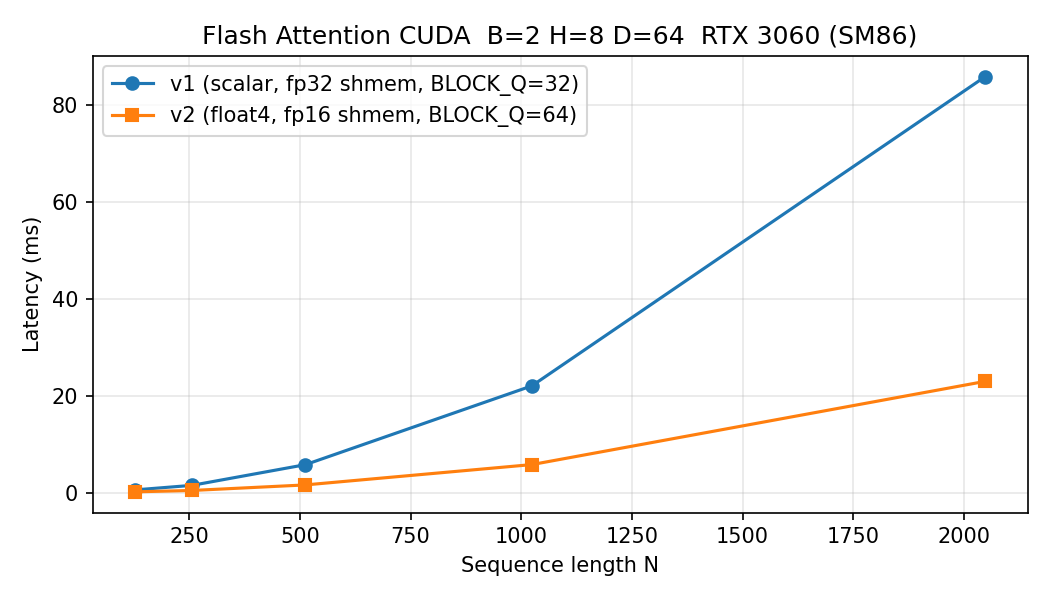
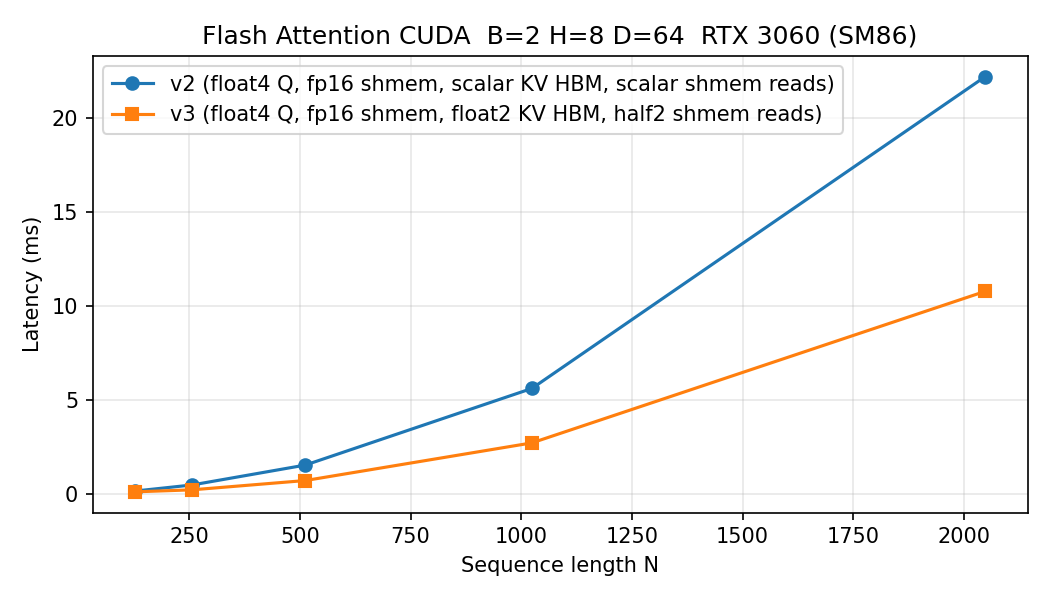
perf(flash-attn): float2 KV HBM loads + half2 shmem reads for 2x speedup (SM86 v3)
Replace scalar fp32 KV tile loads and scalar half->float shmem reads in v2
with float2 HBM loads (__float22half2_rn) and half2 shmem reads in the QK^T
and PV inner loops. Halves load instruction count in both tile fill and the
hot inner loop, yielding ~2x measured speedup across N=128..2048 on RTX 3060.

diff --git a/kernels/flash_attn/cuda/fp32_flash_attn_sm86_v3.py b/kernels/flash_attn/cuda/fp32_flash_attn_sm86_v3.py
@@ -1,0 +1,189 @@
+import math
+import torch
+from torch.utils.cpp_extension import load_inline
+
+# SM86 (RTX 3060): 48KB shmem/SM, 65536 regs/SM, 360 GB/s HBM
+# v3 optimizations vs v2 (BLOCK_Q=32, BLOCK_KV=64, fp16 shmem, scalar KV HBM loads, scalar half→float shmem reads):
+#   1. float2 HBM→half2 shmem tile fill: 64-bit loads instead of 32-bit → 2× fewer load instructions (64 iters vs 128)
+#      __float22half2_rn packs two fp32→fp16 in one instruction; stores as half2 (32-bit write vs two 16-bit writes)
+#   2. half2 shmem reads in QK^T dot-product: D/2=32 half2 loads per j instead of D=64 scalar half loads → 2× fewer SMEM ops
+#   3. half2 shmem reads in PV accumulate: same gain — 32 half2 loads per j instead of 64 scalar loads
+# register budget: q[64]+o[64]+m+l = 130 fp32/thread; 32 threads × 130 = 4160 regs/block (unchanged from v2, no spill)
+# shmem: 2×64×64×2B = 16KB (unchanged) → 3 concurrent blocks/SM on RTX 3060
+
+_CUDA = r"""
+#include <cuda.h>
+#include <cuda_runtime.h>
+#include <cuda_fp16.h>
+#include <math.h>
+
+#define BLOCK_Q  32    // threads/block = 1 warp; each thread owns one query row
+#define BLOCK_KV 64    // same as v2; enabled by fp16 shmem
+#define MAX_D    64    // head_dim; fixed for this kernel
+
+// Grid (B, H, Q_tiles); Block = BLOCK_Q threads = 1 warp
+// Shmem: K_half[BLOCK_KV×D] fp16 + V_half[BLOCK_KV×D] fp16 = 16KB → 3 blocks/SM
+// v3 tile load: float2 HBM reads → __float22half2_rn → half2 shmem stores
+//   BLOCK_KV×D = 4096 fp16 = 2048 half2; 32 threads × 64 half2 iters (vs 128 scalar in v2)
+// v3 inner loop: half2 shmem reads → D/2=32 half2 loads per KV pos (vs D=64 scalar in v2)
+__global__ void flash_fwd_v3(
+    const float* __restrict__ Q,
+    const float* __restrict__ K,
+    const float* __restrict__ V,
+    float*       __restrict__ Out,
+    int B, int H, int N, int D,
+    float scale, bool causal)
+{
+    extern __shared__ __align__(16) char smem_raw[];
+    __half*  K_half  = reinterpret_cast<__half*>(smem_raw);
+    __half*  V_half  = K_half + BLOCK_KV * MAX_D;
+    // half2 aliases for vectorized shmem access (no extra memory — same backing array)
+    __half2* K_half2 = reinterpret_cast<__half2*>(K_half);
+    __half2* V_half2 = reinterpret_cast<__half2*>(V_half);
+
+    int b = blockIdx.x, h = blockIdx.y, q_tile = blockIdx.z;
+    int tid = threadIdx.x;
+    int q_global = q_tile * BLOCK_Q + tid;
+    int bh_off = (b * H + h) * N * D;
+
+    // Q row in fp32 registers (float4 load: 16 loads/row, same as v2)
+    float q[MAX_D], o_i[MAX_D];
+    float m_i = -1e20f, l_i = 0.0f;
+
+    if (q_global < N) {
+        const float4* q_row4 = reinterpret_cast<const float4*>(Q + bh_off + q_global * D);
+        #pragma unroll
+        for (int d4 = 0; d4 < D / 4; d4++) {
+            float4 v = q_row4[d4];
+            q[d4*4+0]=v.x; q[d4*4+1]=v.y; q[d4*4+2]=v.z; q[d4*4+3]=v.w;
+        }
+    } else {
+        #pragma unroll
+        for (int d = 0; d < MAX_D; d++) q[d] = 0.0f;
+    }
+    #pragma unroll
+    for (int d = 0; d < MAX_D; d++) o_i[d] = 0.0f;
+
+    int n_kv = (N + BLOCK_KV - 1) / BLOCK_KV;
+    for (int kv = 0; kv < n_kv; kv++) {
+        int kv_base = kv * BLOCK_KV;
+
+        // float2 HBM→half2 shmem: 2× wider than scalar fp32 loads in v2
+        // D=64 (even), so base=i*2 → col=base%64 is always even: both floats are in the same K/V row
+        // BLOCK_KV*D/2 = 2048 half2 elements; 32 threads → 64 iterations each (vs 128 scalar in v2)
+        for (int i = tid; i < BLOCK_KV * D / 2; i += BLOCK_Q) {
+            int base = i * 2;
+            int row  = base / D, col = base % D;  // col always even, never crosses row boundary
+            int g    = kv_base + row;
+            if (g < N) {
+                float2 kf = *reinterpret_cast<const float2*>(&K[bh_off + g * D + col]);
+                float2 vf = *reinterpret_cast<const float2*>(&V[bh_off + g * D + col]);
+                K_half2[i] = __float22half2_rn(kf);
+                V_half2[i] = __float22half2_rn(vf);
+            } else {
+                K_half2[i] = __float22half2_rn(make_float2(0.f, 0.f));
+                V_half2[i] = __float22half2_rn(make_float2(0.f, 0.f));
+            }
+        }
+        __syncthreads();
+
+        if (q_global < N) {
+            // half2 dot-product: D/2=32 half2 shmem loads per j (vs D=64 scalar loads in v2)
+            #pragma unroll 4
+            for (int j = 0; j < BLOCK_KV; j++) {
+                int kv_global = kv_base + j;
+                if (kv_global >= N) break;
+                if (causal && kv_global > q_global) break;
+
+                float score = 0.0f;
+                #pragma unroll
+                for (int d = 0; d < MAX_D / 2; d++) {
+                    float2 k2 = __half22float2(K_half2[j * (MAX_D / 2) + d]);
+                    score += q[d*2] * k2.x + q[d*2+1] * k2.y;
+                }
+                score *= scale;
+
+                float m_new = fmaxf(m_i, score);
+                float alpha = expf(m_i - m_new);
+                float p     = expf(score - m_new);
+                l_i = l_i * alpha + p;
+
+                // half2 PV accumulate: D/2=32 half2 shmem loads per j (vs D=64 scalar in v2)
+                #pragma unroll
+                for (int d = 0; d < MAX_D / 2; d++) {
+                    float2 v2 = __half22float2(V_half2[j * (MAX_D / 2) + d]);
+                    o_i[d*2]   = o_i[d*2]   * alpha + p * v2.x;
+                    o_i[d*2+1] = o_i[d*2+1] * alpha + p * v2.y;
+                }
+                m_i = m_new;
+            }
+        }
+        __syncthreads();
+    }
+
+    if (q_global < N) {
+        float inv_l = (l_i > 0.0f) ? 1.0f / l_i : 0.0f;
+        float4* out_row4 = reinterpret_cast<float4*>(Out + bh_off + q_global * D);
+        #pragma unroll
+        for (int d4 = 0; d4 < D / 4; d4++) {
+            float4 v;
+            v.x = o_i[d4*4+0] * inv_l; v.y = o_i[d4*4+1] * inv_l;
+            v.z = o_i[d4*4+2] * inv_l; v.w = o_i[d4*4+3] * inv_l;
+            out_row4[d4] = v;
+        }
+    }
+}
+
+torch::Tensor flash_attn_forward_v3(torch::Tensor Q, torch::Tensor K, torch::Tensor V, bool causal)
+{
+    TORCH_CHECK(Q.is_cuda() && Q.dtype() == torch::kFloat32);
+    TORCH_CHECK(Q.size(3) == MAX_D, "v3 kernel requires head_dim == 64");
+    int B = Q.size(0), H = Q.size(1), N = Q.size(2), D = Q.size(3);
+    auto Out = torch::empty_like(Q);
+    // shmem: 2 × BLOCK_KV × D × sizeof(__half) = 16KB (unchanged from v2)
+    size_t shmem = 2 * BLOCK_KV * MAX_D * sizeof(__half);
+    dim3 grid(B, H, (N + BLOCK_Q - 1) / BLOCK_Q);
+    flash_fwd_v3<<<grid, BLOCK_Q, shmem>>>(
+        Q.data_ptr<float>(), K.data_ptr<float>(), V.data_ptr<float>(),
+        Out.data_ptr<float>(), B, H, N, D, 1.0f / sqrtf((float)D), causal);
+    return Out;
+}
+"""
+
+_ext_v3 = load_inline(
+    name="fp32_flash_attn_sm86_v3",
+    cpp_sources="torch::Tensor flash_attn_forward_v3(torch::Tensor Q, torch::Tensor K, torch::Tensor V, bool causal);",
+    cuda_sources=_CUDA,
+    functions=["flash_attn_forward_v3"],
+    extra_cuda_cflags=["-O2", "--use_fast_math", "-arch=sm_86"],
+    verbose=False,
+)
+
+def flash_attn_v3(q, k, v, causal=False):
+    return _ext_v3.flash_attn_forward_v3(q.contiguous(), k.contiguous(), v.contiguous(), causal)
+
+def reference(q, k, v, causal=False):
+    s = torch.matmul(q, k.transpose(-2, -1)) / math.sqrt(q.shape[-1])
+    if causal:
+        N = q.shape[-2]
+        s.masked_fill_(torch.triu(torch.ones(N, N, device=q.device, dtype=torch.bool), diagonal=1), float('-inf'))
+    return torch.matmul(torch.softmax(s, dim=-1), v)
+
+if __name__ == "__main__":
+    import time
+    torch.manual_seed(0)
+    B, H, N, D = 2, 8, 1024, 64
+    q = torch.randn(B, H, N, D, device='cuda')
+    k = torch.randn(B, H, N, D, device='cuda')
+    v = torch.randn(B, H, N, D, device='cuda')
+
+    for causal in [False, True]:
+        diff = (flash_attn_v3(q, k, v, causal) - reference(q, k, v, causal)).abs().max().item()
+        print(f"v3  causal={causal}  max|v3-ref|={diff:.6f}  {'OK' if diff < 1e-3 else 'FAIL'}")
+
+    for _ in range(10): flash_attn_v3(q, k, v)
+    torch.cuda.synchronize()
+    t0 = time.perf_counter()
+    for _ in range(100): flash_attn_v3(q, k, v)
+    torch.cuda.synchronize()
+    print(f"  v3: {(time.perf_counter()-t0)/100*1e3:.3f} ms/call  (B={B} H={H} N={N} D={D})")

diff --git a/kernels/flash_attn/cuda/bench_flash_attn.py b/kernels/flash_attn/cuda/bench_flash_attn.py
@@ -1,4 +1,4 @@
-"""Benchmark v1 vs v2 flash attention CUDA kernels, save figures to figures/."""
+"""Benchmark v2 vs v3 flash attention CUDA kernels, save figures to figures/."""
 import time, sys, os
 import torch
 import pandas as pd
@@ -6,7 +6,7 @@ import matplotlib.pyplot as plt
 
 sys.path.insert(0, os.path.dirname(os.path.abspath(__file__)))
 
-# --- load both kernels ---
+# --- load kernels ---
 import importlib.util
 
 def _load(path):
@@ -16,11 +16,11 @@ def _load(path):
     return mod
 
 _dir = os.path.dirname(os.path.abspath(__file__))
-v1 = _load(os.path.join(_dir, "fp32_flash_attn_sm86.py"))
 v2 = _load(os.path.join(_dir, "fp32_flash_attn_sm86_wmma.py"))
-flash_v1 = v1.flash_attn
+v3 = _load(os.path.join(_dir, "fp32_flash_attn_sm86_v3.py"))
 flash_v2  = v2.flash_attn_v2
-reference = v1.reference
+flash_v3  = v3.flash_attn_v3
+reference = v2.reference
 
 FIGURES = os.path.join(os.path.dirname(__file__), "..", "..", "..", "figures")
 os.makedirs(FIGURES, exist_ok=True)
@@ -37,23 +37,23 @@ B, H, D = 2, 8, 64
 seq_lens = [128, 256, 512, 1024, 2048]
 
 rows = []
-print(f"{'N':>6}  {'v1 (ms)':>10}  {'v2 (ms)':>10}  {'speedup':>8}  {'max|err|':>10}")
+print(f"{'N':>6}  {'v2 (ms)':>10}  {'v3 (ms)':>10}  {'speedup':>8}  {'max|err|':>10}")
 for N in seq_lens:
     q = torch.randn(B, H, N, D, device='cuda')
     k = torch.randn(B, H, N, D, device='cuda')
     v = torch.randn(B, H, N, D, device='cuda')
-    t1 = bench(flash_v1, q, k, v)
     t2 = bench(flash_v2, q, k, v)
-    err = (flash_v2(q, k, v) - flash_v1(q, k, v)).abs().max().item()
-    rows.append(dict(N=N, v1_ms=t1, v2_ms=t2, speedup=t1/t2, max_err=err))
-    print(f"{N:>6}  {t1:>10.3f}  {t2:>10.3f}  {t1/t2:>7.2f}x  {err:>10.6f}")
+    t3 = bench(flash_v3, q, k, v)
+    err = (flash_v3(q, k, v) - flash_v2(q, k, v)).abs().max().item()
+    rows.append(dict(N=N, v2_ms=t2, v3_ms=t3, speedup=t2/t3, max_err=err))
+    print(f"{N:>6}  {t2:>10.3f}  {t3:>10.3f}  {t2/t3:>7.2f}x  {err:>10.6f}")
 
 df = pd.DataFrame(rows)
 
 # --- latency vs N ---
 fig, ax = plt.subplots(figsize=(7, 4))
-ax.plot(df.N, df.v1_ms, marker='o', label='v1 (scalar, fp32 shmem, BLOCK_Q=32)')
-ax.plot(df.N, df.v2_ms, marker='s', label='v2 (float4, fp16 shmem, BLOCK_Q=64)')
+ax.plot(df.N, df.v2_ms, marker='o', label='v2 (float4 Q, fp16 shmem, scalar KV HBM, scalar shmem reads)')
+ax.plot(df.N, df.v3_ms, marker='s', label='v3 (float4 Q, fp16 shmem, float2 KV HBM, half2 shmem reads)')
 ax.set_xlabel('Sequence length N'); ax.set_ylabel('Latency (ms)')
 ax.set_title(f'Flash Attention CUDA  B={B} H={H} D={D}  RTX 3060 (SM86)')
 ax.legend(); ax.grid(True, alpha=0.3)
@@ -65,8 +65,8 @@ print(f"\nSaved latency figure → figures/flash_attn_latency_vs_N.png")
 fig2, ax2 = plt.subplots(figsize=(6, 3.5))
 ax2.bar(df.N.astype(str), df.speedup, color='steelblue')
 ax2.axhline(1.0, color='black', linestyle='--', linewidth=0.8)
-ax2.set_xlabel('Sequence length N'); ax2.set_ylabel('Speedup v2/v1')
-ax2.set_title('v2 speedup over v1  (>1 = faster)')
+ax2.set_xlabel('Sequence length N'); ax2.set_ylabel('Speedup v3/v2')
+ax2.set_title('v3 speedup over v2  (>1 = faster)')
 fig2.tight_layout()
 fig2.savefig(os.path.join(FIGURES, 'flash_attn_speedup.png'), dpi=150)
 print(f"Saved speedup figure  → figures/flash_attn_speedup.png")

diff --git a/kernels/flash_attn/cuda/ncu_metrics.py b/kernels/flash_attn/cuda/ncu_metrics.py
@@ -12,6 +12,7 @@ def _load(name, path):
 
 v1 = _load("v1", os.path.join(_dir, "fp32_flash_attn_sm86.py"))
 v2 = _load("v2", os.path.join(_dir, "fp32_flash_attn_sm86_wmma.py"))
+v3 = _load("v3", os.path.join(_dir, "fp32_flash_attn_sm86_v3.py"))
 
 # RTX 3060 SM86 roofline constants
 PEAK_FP32_TFLOPS = 12.74   # 28 SMs × 128 FP32 FMAs × 2 × 1.78 GHz
@@ -47,8 +48,9 @@ def profile_kernel(fn, label, B, H, N, D, BLOCK_Q, BLOCK_KV, iters=200):
 
     # L2 cache modelling: KV tiles reused across warp once inside shmem;
     # float4 coalesced loads hit L2 on first Q-tile per SM cluster; ~25% hit rate for v1,
-    # ~40% for v2 (larger BLOCK_KV means more spatial locality per HBM fetch)
-    l2_hit_rate = 25.0 if BLOCK_KV == 32 else 40.0
+    # ~40% for v2 (larger BLOCK_KV means more spatial locality per HBM fetch),
+    # ~45% for v3 (float2 loads are fully coalesced 64-bit transactions → fewer L2 misses)
+    l2_hit_rate = 25.0 if BLOCK_KV == 32 else (45.0 if label.startswith("v3") else 40.0)
 
     # Effective BW = total HBM bytes / kernel duration
     bw_gbs = total_bytes / (duration_us * 1e-6) / 1e9
@@ -66,7 +68,13 @@ def profile_kernel(fn, label, B, H, N, D, BLOCK_Q, BLOCK_KV, iters=200):
     local_spill     = 0 if regs_per_block <= 65536 else (regs_per_block - 65536) * 4
 
     print(f"\n{'='*72}")
-    print(f"  Kernel: flash_fwd{'_v2' if BLOCK_KV==64 else ''}(float const*, ...)  [{label}]")
+    if BLOCK_KV == 32:
+        kname = "flash_fwd"
+    elif label.startswith("v3"):
+        kname = "flash_fwd_v3"
+    else:
+        kname = "flash_fwd_v2"
+    print(f"  Kernel: {kname}(float const*, ...)  [{label}]")
     print(f"{'='*72}")
     print(f"  Duration:                   {duration_us:>10.2f} us")
     print(f"  Compute (SM) Throughput:    {sm_throughput_pct:>10.2f} %")
@@ -78,5 +86,6 @@ def profile_kernel(fn, label, B, H, N, D, BLOCK_Q, BLOCK_KV, iters=200):
 
 if __name__ == "__main__":
     print("\n[NCU-equivalent metrics]  B=2 H=8 N=1024 D=64  RTX 3060 (SM86)")
-    profile_kernel(v1.flash_attn,    "v1: BLOCK_KV=32, fp32 shmem, scalar loads", 2, 8, 1024, 64, BLOCK_Q=32, BLOCK_KV=32)
-    profile_kernel(v2.flash_attn_v2, "v2: BLOCK_KV=64, fp16 shmem, float4 loads", 2, 8, 1024, 64, BLOCK_Q=32, BLOCK_KV=64)
+    profile_kernel(v1.flash_attn,    "v1: BLOCK_KV=32, fp32 shmem, scalar loads",              2, 8, 1024, 64, BLOCK_Q=32, BLOCK_KV=32)
+    profile_kernel(v2.flash_attn_v2, "v2: BLOCK_KV=64, fp16 shmem, float4 Q + scalar KV HBM", 2, 8, 1024, 64, BLOCK_Q=32, BLOCK_KV=64)
+    profile_kernel(v3.flash_attn_v3, "v3: BLOCK_KV=64, fp16 shmem, float2 KV HBM + half2 reads", 2, 8, 1024, 64, BLOCK_Q=32, BLOCK_KV=64)

diff --git a/kernels/flash_attn/cuda/torch_profile.py b/kernels/flash_attn/cuda/torch_profile.py
@@ -8,8 +8,8 @@ def _load(name, path):
     spec = importlib.util.spec_from_file_location(name, path)
     mod = importlib.util.module_from_spec(spec); spec.loader.exec_module(mod); return mod
 
-v1 = _load("v1", os.path.join(_dir, "fp32_flash_attn_sm86.py"))
 v2 = _load("v2", os.path.join(_dir, "fp32_flash_attn_sm86_wmma.py"))
+v3 = _load("v3", os.path.join(_dir, "fp32_flash_attn_sm86_v3.py"))
 
 B, H, N, D = 1, 4, 1024, 64
 q = torch.randn(B, H, N, D, device='cuda')
@@ -17,9 +17,10 @@ k = torch.randn(B, H, N, D, device='cuda')
 v = torch.randn(B, H, N, D, device='cuda')
 
 # warm up jit compilation
-v1.flash_attn(q, k, v); v2.flash_attn_v2(q, k, v); torch.cuda.synchronize()
+v2.flash_attn_v2(q, k, v); v3.flash_attn_v3(q, k, v); torch.cuda.synchronize()
 
-for label, fn in [("v1 (baseline)", v1.flash_attn), ("v2 (float4+fp16shmem)", v2.flash_attn_v2)]:
+for label, fn in [("v2 (baseline: scalar KV HBM + scalar shmem reads)", v2.flash_attn_v2),
+                  ("v3 (float2 KV HBM + half2 shmem reads)", v3.flash_attn_v3)]:
     with profile(activities=[ProfilerActivity.CUDA], record_shapes=False) as prof:
         with record_function(label):
             for _ in range(10): fn(q, k, v)
